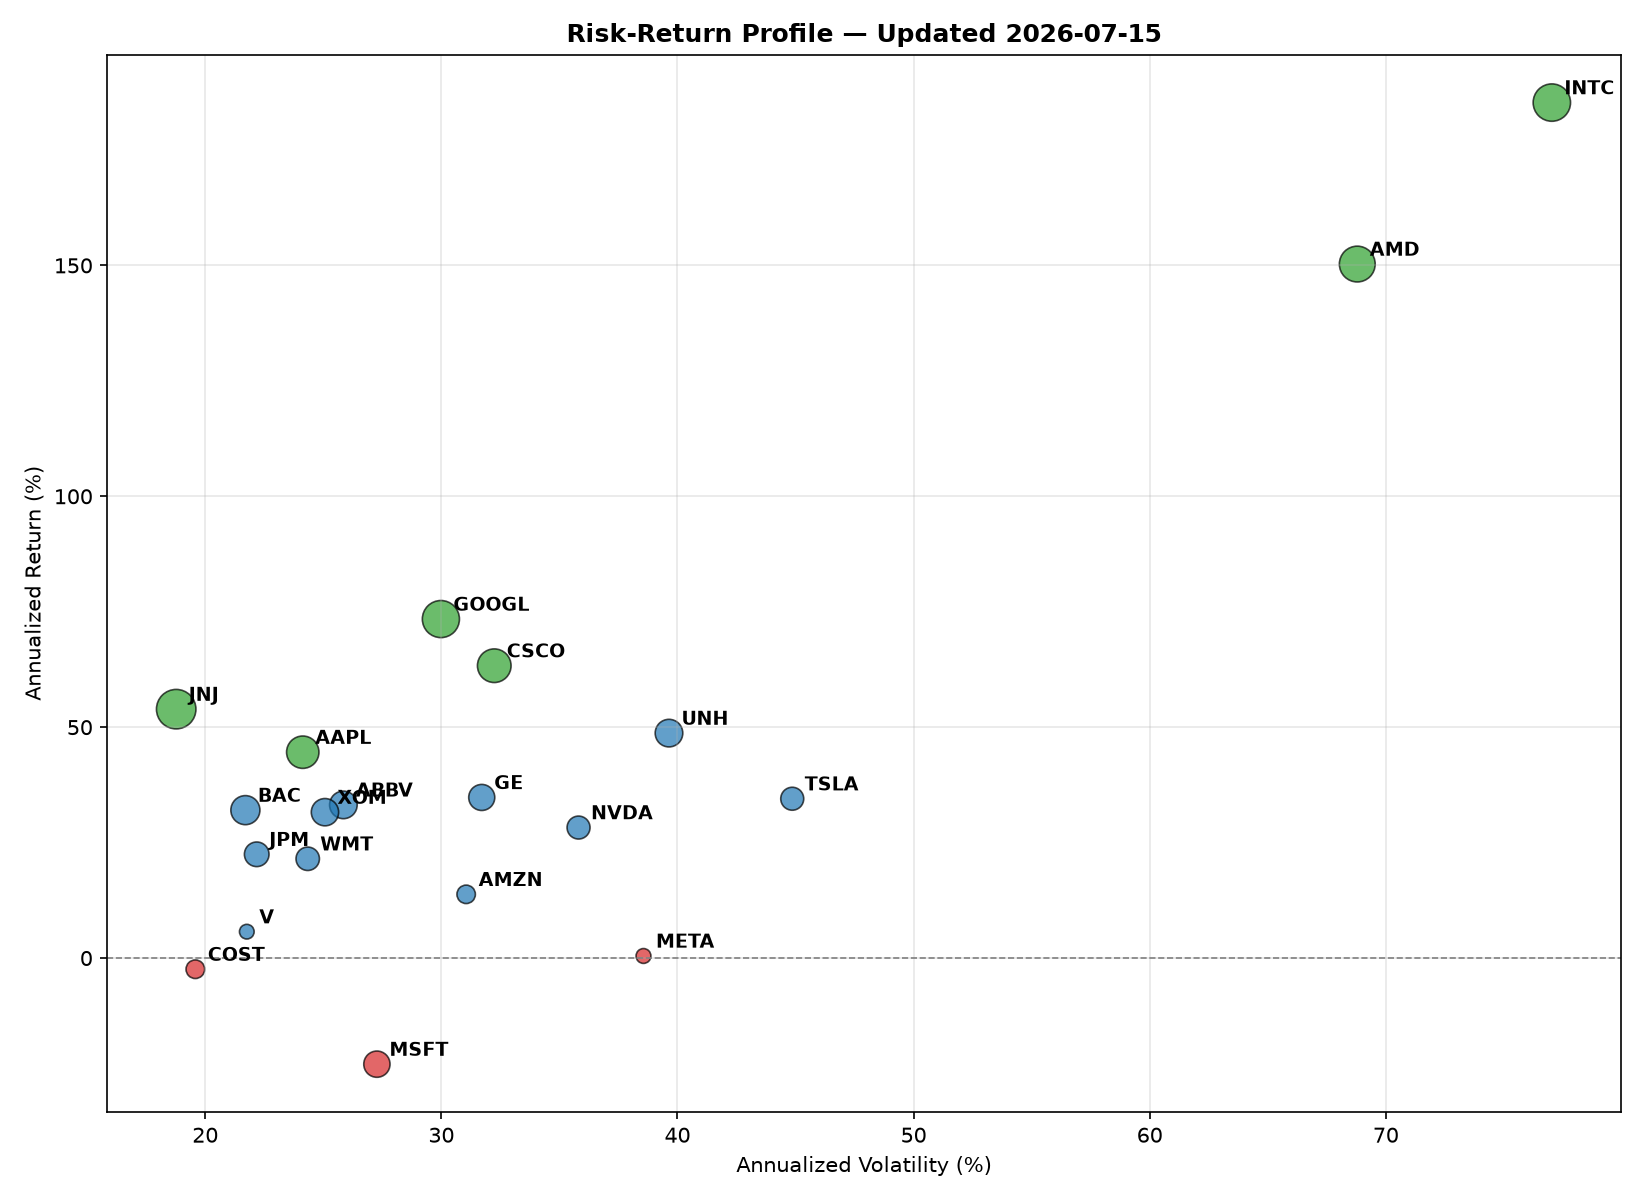
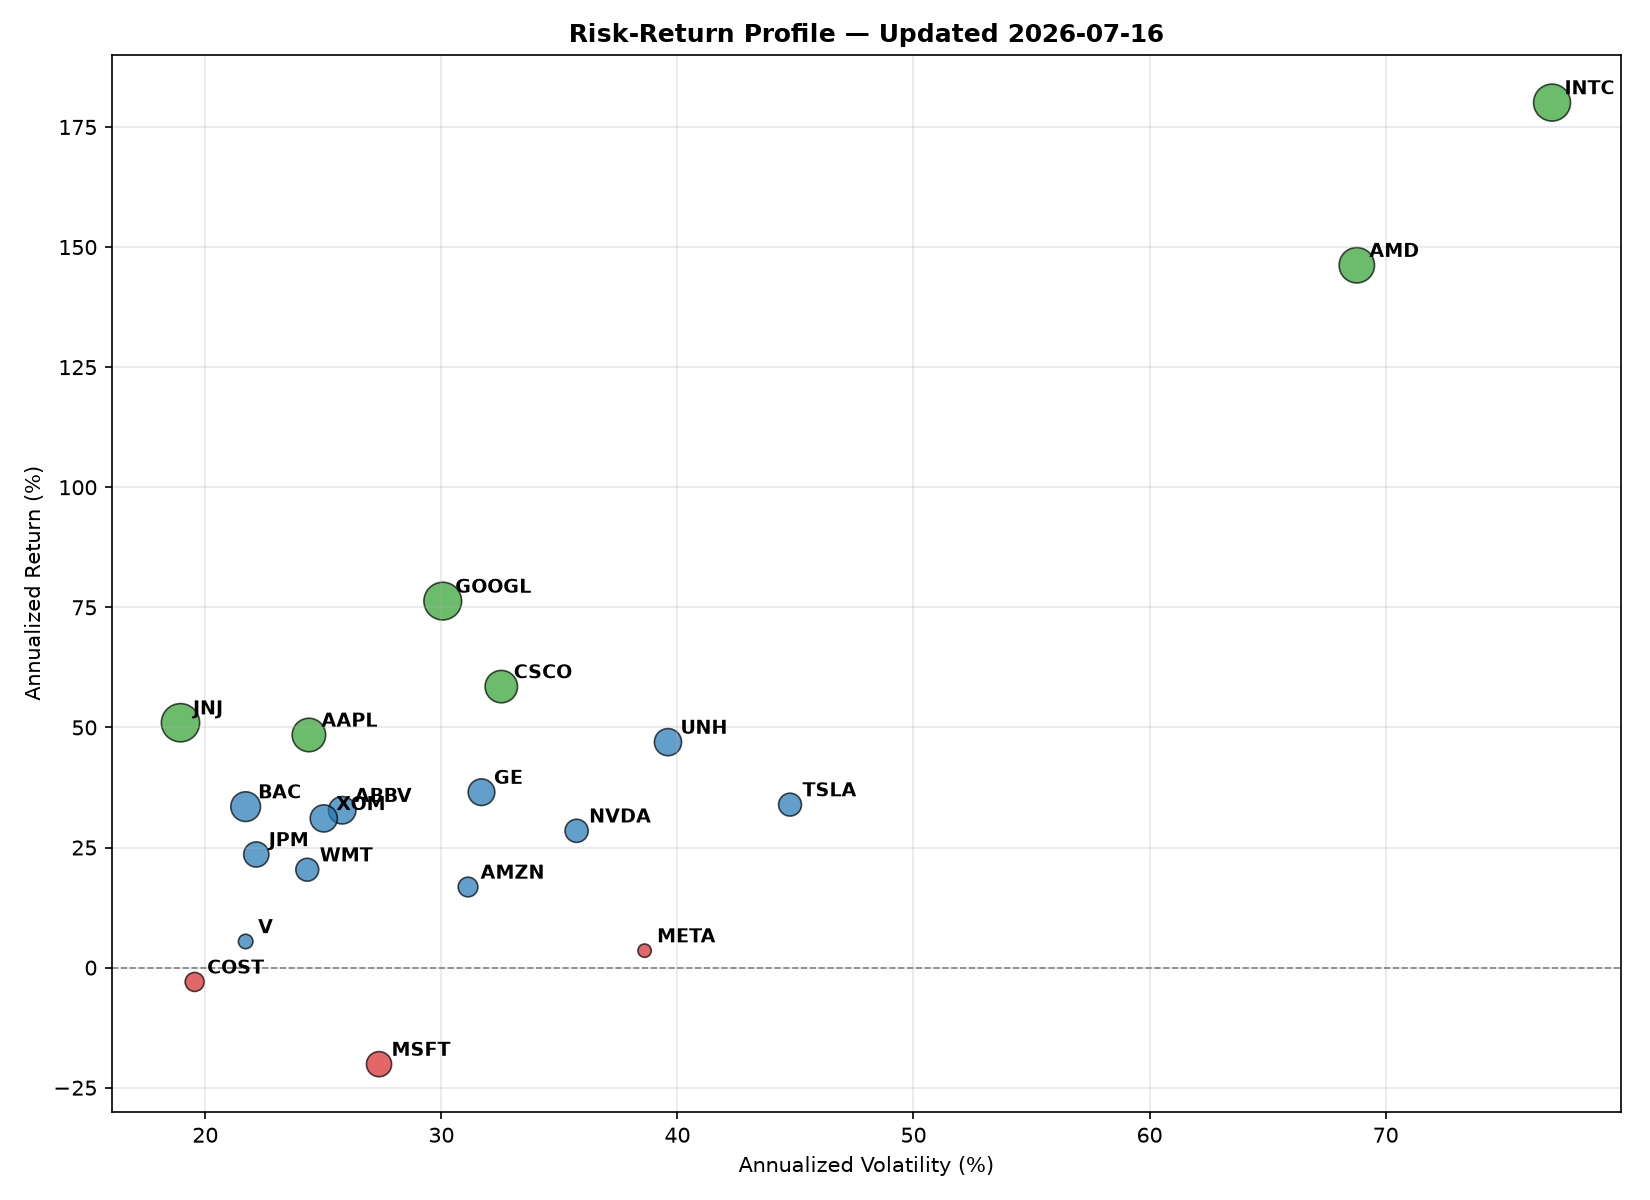
Automated daily update: prices, metrics, and charts

diff --git a/SNAPSHOT.md b/SNAPSHOT.md
@@ -1,8 +1,8 @@
-# Daily Risk Snapshot — 2026-07-14
+# Daily Risk Snapshot — 2026-07-15
 
-**Best mover:** INTC (+4.50%)
-**Worst mover:** CSCO (-1.81%)
-**Top risk-adjusted performer (trailing window):** JNJ (Sharpe 2.66)
+**Best mover:** AAPL (+4.01%)
+**Worst mover:** CSCO (-4.54%)
+**Top risk-adjusted performer (trailing window):** JNJ (Sharpe 2.48)
 
 **No new anomaly flags today.**
 